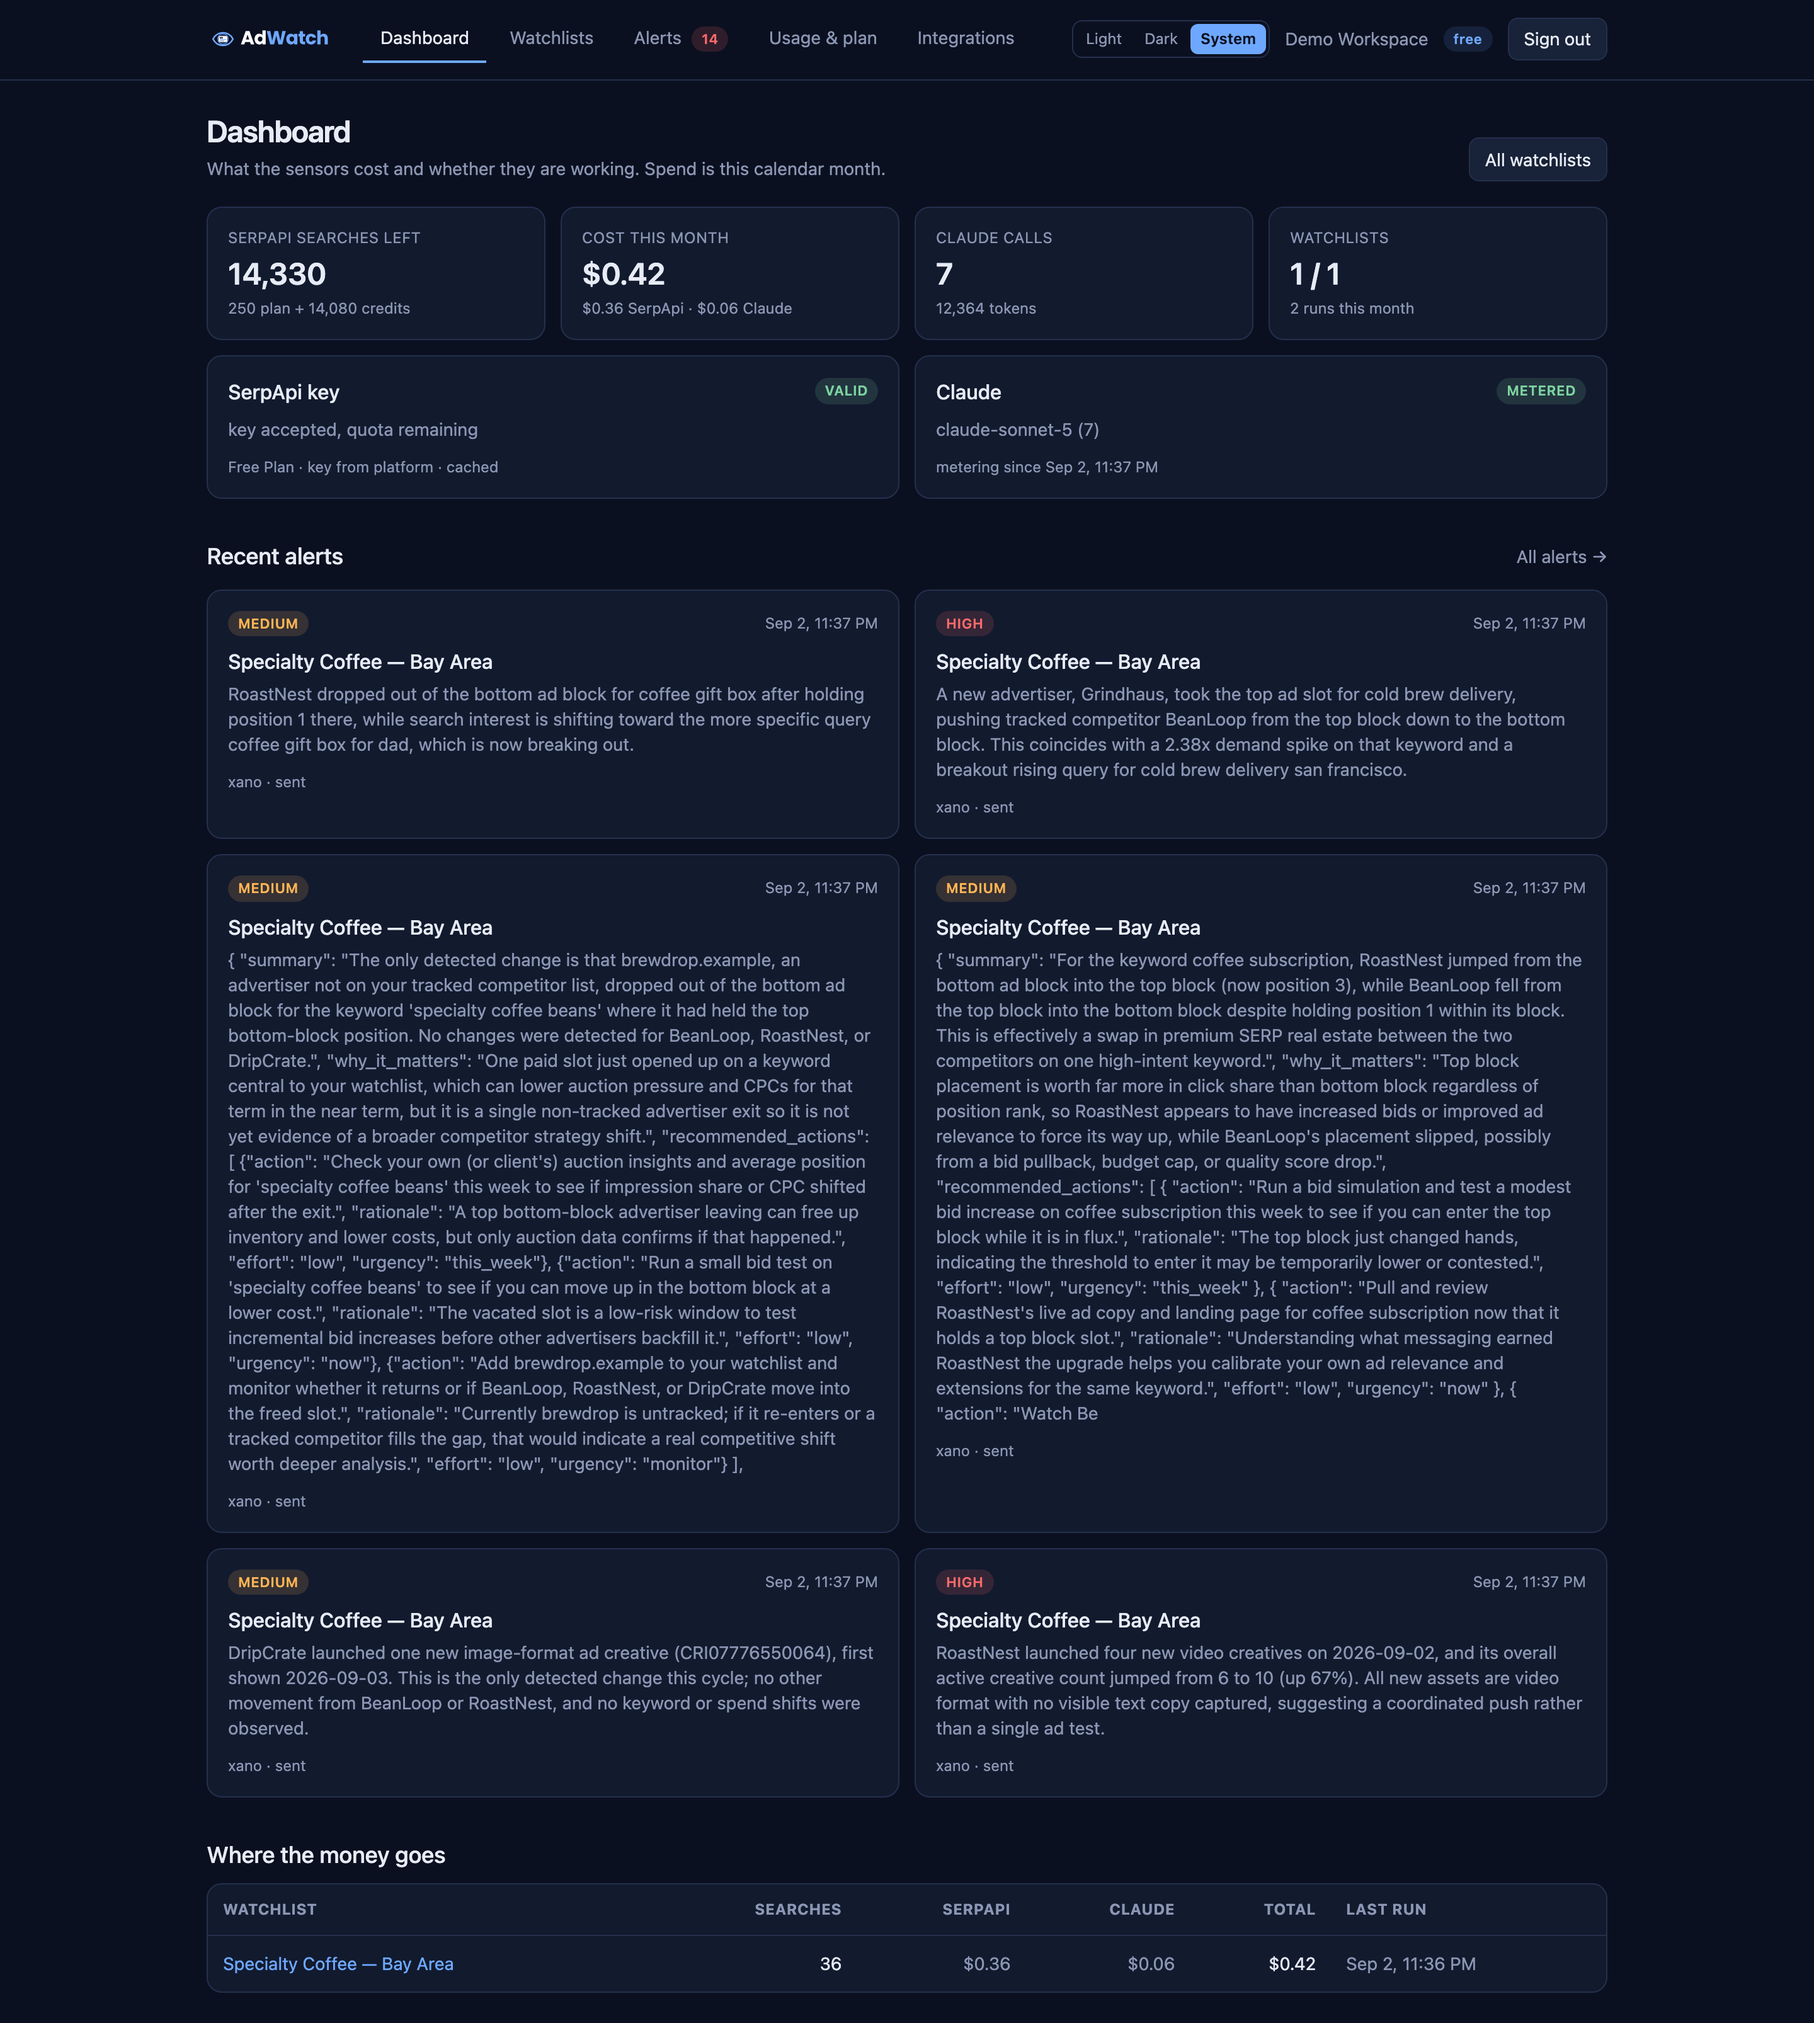
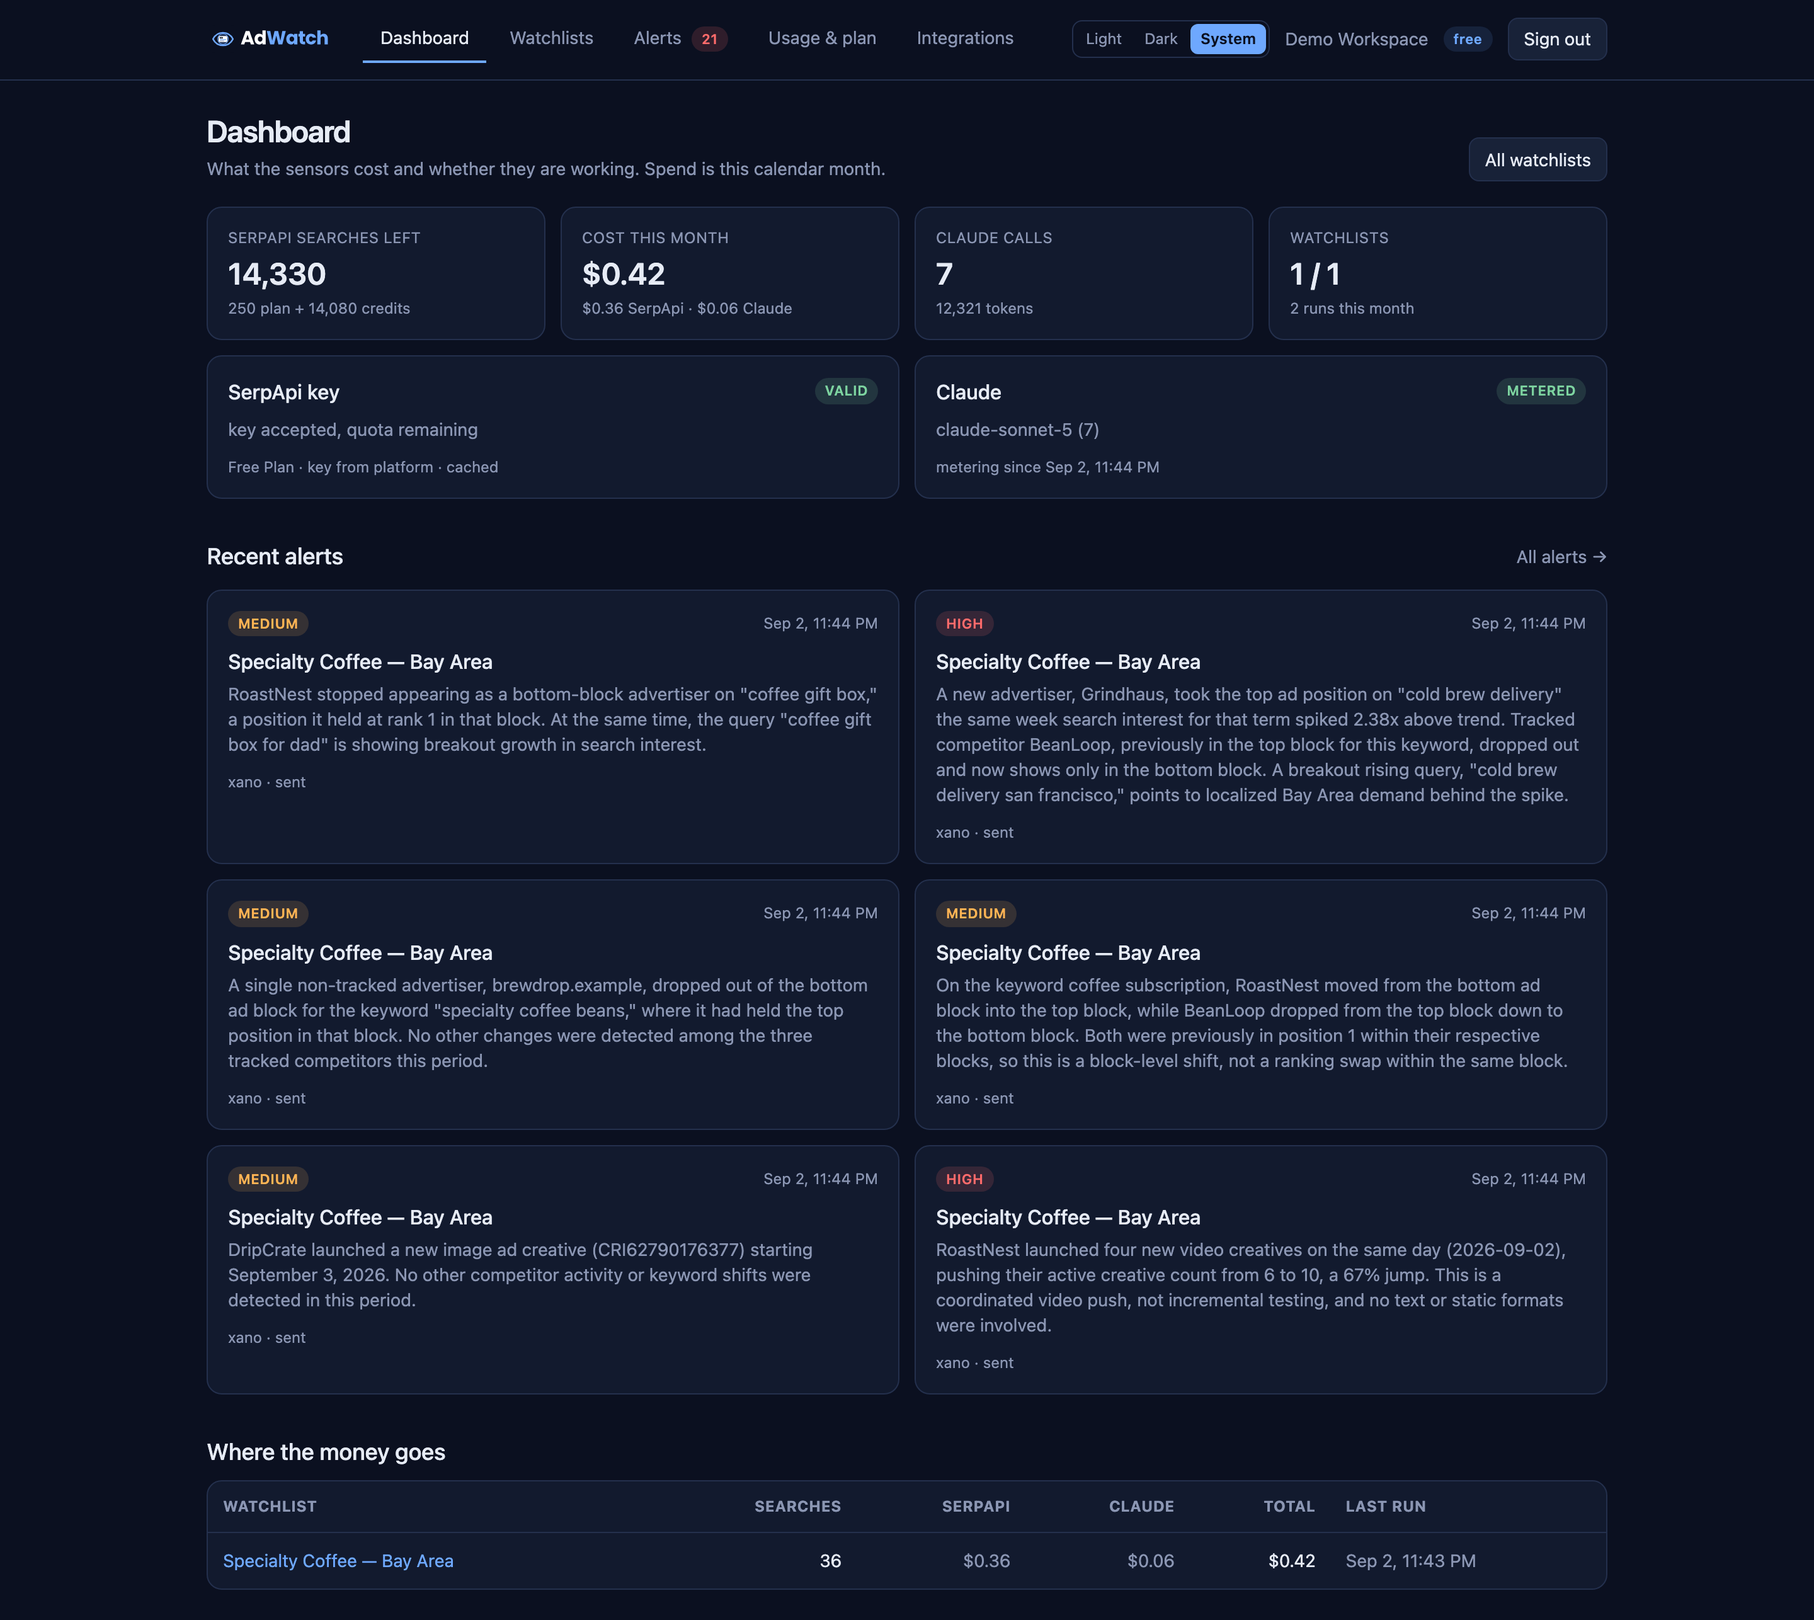
docs(devpost): finish the submission copy against verified numbers
Both drafts had drifted from what shipped and carried unfilled placeholders.
The story now reflects onboarding, bring-your-own keys, theming, config,
password reset, the history API and retention, and every figure is pulled from
production rather than estimated.

Numbers exclude the synthetic demo workspace so nothing is inflated by seeded
data: 12 runs, 94 SerpApi searches, 29 creatives, 75 typed changes, 21 insights,
10 Claude calls that actually reached the model.

Corrects the XanoScript file count (the drafts said 16 in one place and 21 in
another; it is 26), and replaces the stale $42-vs-$8.50 cost illustration with
the live $21.60-vs-$4.41 projection.

Adds eight screenshots captured from the deployed app signed in as a demo
account, the capture script that produced them, a shot list, and demo
credentials judges can use.

diff --git a/docs/devpost_story.md b/docs/devpost_story.md
@@ -54,13 +54,15 @@ Quota is treated as a product constraint, not an afterthought. Each call is one 
 
 **Generalising beyond the demo vertical.** The keyword engine's guard against drifting into an adjacent market ("espresso machine" must not drag it into "machine learning") was originally five hand-curated term lists, which covered the seeded verticals and nothing else — a watchlist created from onboarding had no guard at all. It now derives its vocabulary from the watchlist's own keywords, so a mattress company fences itself without borrowing a coffee company's words.
 
-**Trusting the right evidence.** Several bugs were invisible to passing assertions and only showed up when we looked at production directly: a scheduled task that had never once run, a reset-link invalidation that silently matched no rows because an unset timestamp column stores `0` rather than SQL `NULL`, and a badge that read correctly in the DOM while CSS uppercased it on screen. Screenshots and live probes caught what green tests could not.
+**Trusting the right evidence.** Our worst bugs were all silent — no error, no failing assertion, just a feature quietly doing nothing. A scheduled task that had never once run. A reset-link invalidation that matched no rows because an unset timestamp column stores `0` rather than SQL `NULL`. A badge that read correctly in the DOM while CSS uppercased it on screen.
+
+The sharpest one: the AI analyst passed `temperature=0.2`, which the current Anthropic SDK no longer accepts, so every call raised `TypeError`, a broad `except` caught it, and a deterministic fallback wrote the insight instead. Insights appeared, cards rendered, runs succeeded — and Claude had never once been reached. The only trace was a `fallback` status in the token ledger and a "0 tokens" figure that looked like a metering glitch. We found it while taking submission screenshots. Fixing it exposed a second one immediately: with real answers finally arriving, three of seven briefs were being truncated at the token cap and rendered as raw JSON on the card. Both are now covered by tests that check the call against the *installed* SDK signature, because a permissive stub would have passed the whole time.
 
 ## Accomplishments that we're proud of
 
-A real change feed over real public data, with an analyst that recommends actions instead of describing charts. Live in production on a custom domain, with **11 runs, 76 SerpApi searches spent, 29 creatives tracked, 38 paid-block placements captured, 1,153 trend points, 72 typed changes detected and 18 AI insights written** — and $0.72 of actual SerpApi spend to show the cost model is real, not theoretical.
+A real change feed over real public data, with an analyst that recommends actions instead of describing charts. Live in production on a custom domain, with **12 runs, 94 SerpApi searches spent, 29 creatives tracked, 38 paid-block placements captured, 1,618 trend points, 75 typed changes detected and 21 insights written** — and $0.94 of actual SerpApi spend against $0.09 of Claude tokens, so the cost model is measured rather than estimated.
 
-A clean control-plane / data-plane split where each half does what it's best at. 238 tests, CI green on every push, and a scheduler we verified by watching it fire rather than by assuming it did.
+A clean control-plane / data-plane split where each half does what it's best at. 246 tests, CI green on every push, and a scheduler we verified by watching it fire rather than by assuming it did.
 
 ## What we learned
 

diff --git a/docs/DEVPOST.md b/docs/DEVPOST.md
@@ -11,7 +11,7 @@ Full story copy to paste into Devpost: **`docs/devpost_story.md`** (rewritten 20
 - [x] Elevator pitch (≤ 200 chars) — below, 186 chars
 - [x] Full story — `docs/devpost_story.md`, real numbers, no placeholders
 - [x] Built with (tags): `python`, `fastapi`, `postgresql`, `nextjs`, `typescript`, `tailwindcss`, `docker`, `github-actions`, `fly-io`, `serpapi`, `xano`, `claude`, `anthropic`
-- [ ] Screenshots ≥ 4 from the **deployed** app — *the gap*; `docs/screenshots/` has only 2 and they predate the brand pass, dashboard, onboarding and config pages
+- [x] Screenshots: 8 captured from the **deployed** app, signed in as the demo account — `docs/screenshots/01..08`
 - [x] Project URL: **https://adwatch.dev** (200, TLS, custom domain)
 - [x] API URL: **https://api.adwatch.dev/api/v1/health** (200)
 - [x] Repo URL: **https://github.com/jkarns87/AdWatch** — public
@@ -22,25 +22,44 @@ Full story copy to paste into Devpost: **`docs/devpost_story.md`** (rewritten 20
 - [ ] Accept terms → **Submit to Hackathon** → confirm status shows *Submitted*
 - [ ] Nobody edits after 9:30 AM
 
-## Verified numbers (pulled from production 2026-09-03 06:22Z)
+## Verified numbers (pulled from production 2026-09-03 06:47Z)
+
+Real, SerpApi-backed workspaces only — the synthetic demo workspace is excluded so
+nothing here is inflated by seeded data.
 
 | | |
 |---|---|
-| Runs / SerpApi searches spent | 11 / 76 |
+| Runs / SerpApi searches spent | 12 / 94 |
 | Creatives tracked | 29 |
 | Paid-block placements captured | 38 |
-| Trend points | 1,153 |
-| Typed changes detected | 72 |
-| AI insights written | 18 |
-| SerpApi spend to date | $0.72 |
+| Trend points | 1,618 |
+| Typed changes detected | 75 |
+| Insights written | 21 |
+| Claude calls that reached the model | 10 (9,824 in / 6,658 out tokens, $0.0862) |
+| SerpApi spend to date | $0.94 |
 | Projected month — naive cadence | $21.60 |
-| Projected month — plan cadence | $4.41 (~5× saving) |
+| Projected month — plan cadence | $4.41 (~5x saving) |
 | XanoScript files | 26 (15 api, 6 table, 2 function, 2 task) |
-| Python modules / passing tests | 57 / 238 |
+| Python modules / passing tests | 57 / 246 |
 | Web routes / Playwright specs | 11 / 6 |
-| Commits | 47 |
+| Commits | 50 |
 
-Re-pull before submitting if more runs happen: `GET /api/v1/usage` and the counts in `docs/DEVPOST.md`.
+Re-pull before submitting if more runs happen: `GET /api/v1/usage`.
+
+## Demo account for judges
+
+Created off the public signup endpoint and seeded with **synthetic** data — fictitious
+advertisers (RoastNest, BeanLoop, DripCrate, Grindhaus), no real brands, no quota spent.
+The insights in it are genuine Claude output over that synthetic diff.
+
+```
+https://adwatch.dev
+demo@adwatch.dev / AdWatchDemo2026!
+```
+
+Worth adding to the Devpost "Try it out" notes so judges can sign in rather than only
+watch the video. Re-seed any time with `POST /api/v1/demo/reset` then `/api/v1/demo/seed`
+using that account's token.
 
 ## Elevator pitch (186 chars)
 
